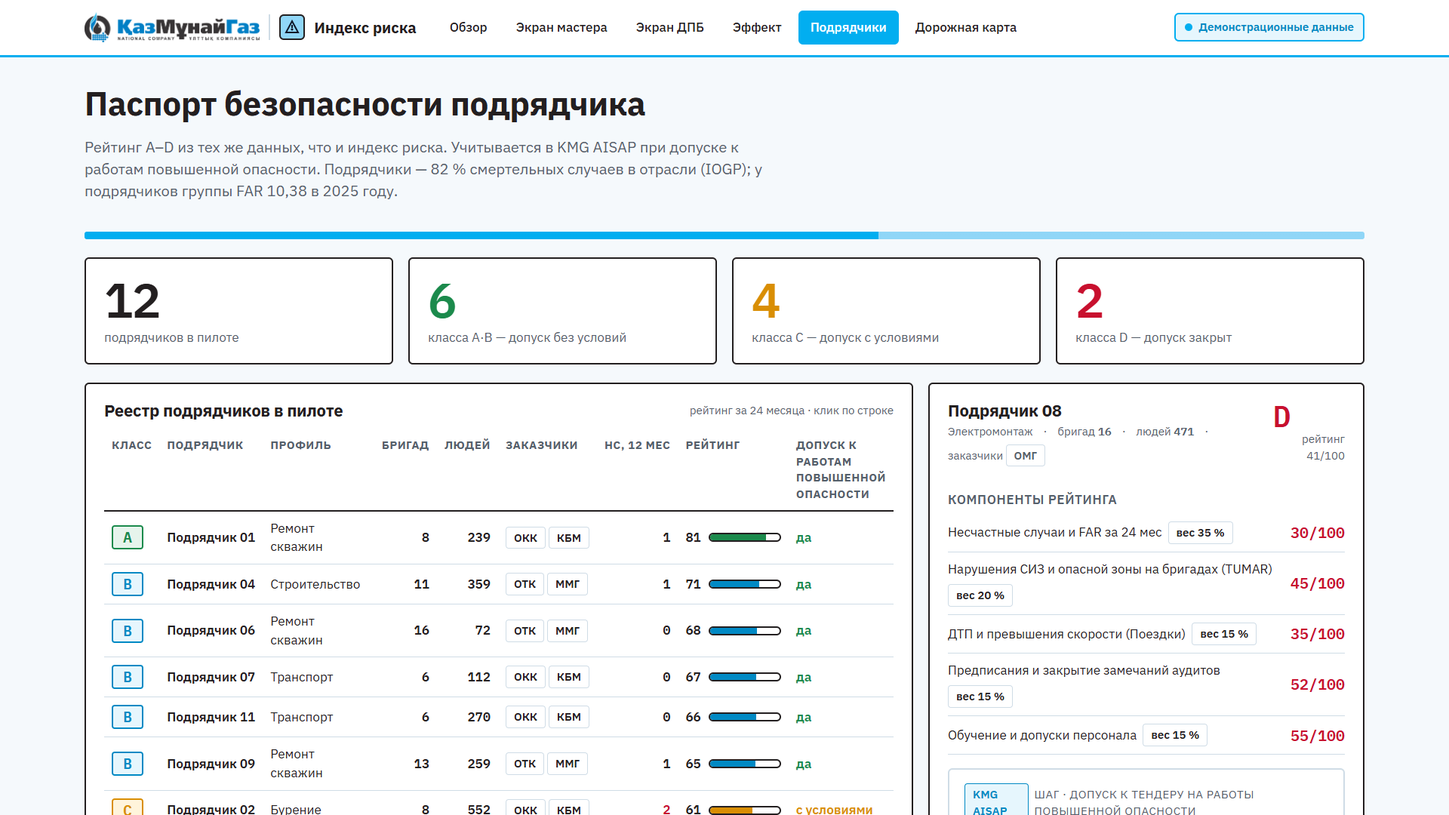
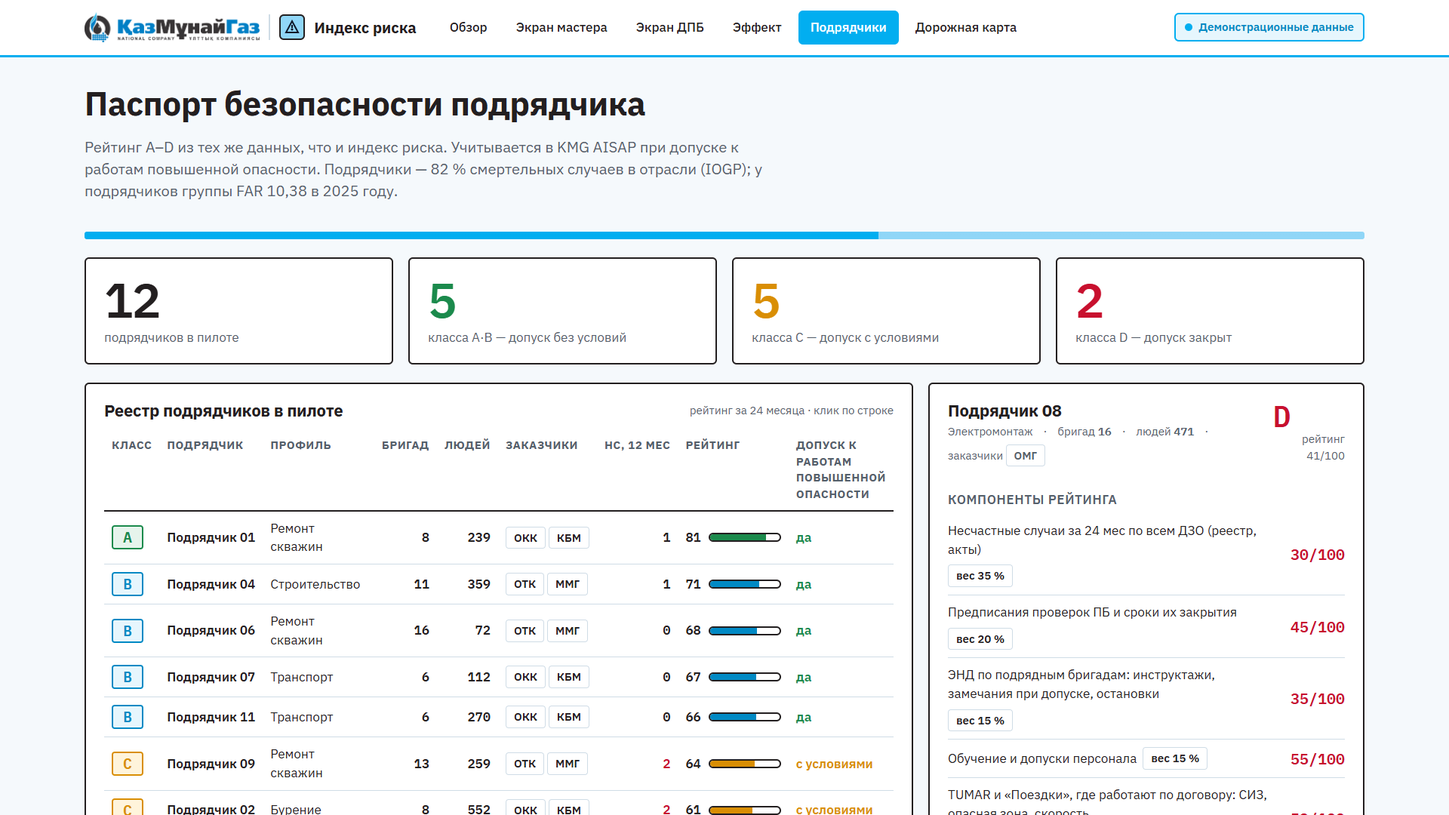
Правки после рецензии комиссий: источники паспорта, класс D с переходным годом, слайд «Роли и пилот»
ЭНД добавлен как источник по подрядным бригадам, TUMAR и «Поездки» — условные.
Класс D больше не «закрыто»: без новых лотов до повторной оценки, договоры не прерываются, арбитр ДПБ.
Убрано условие «90 дней без нарушений TUMAR» — у сторонних подрядчиков TUMAR нет.

diff --git a/схемы.html b/схемы.html
@@ -85,12 +85,12 @@
     </defs>
     <!-- компоненты -->
     <g>
-      <rect class="рамка" x="20" y="40" width="400" height="64" rx="6"/><text x="40" y="68" class="заг">НС и FAR подрядчика · 24 мес</text><text x="40" y="92" class="подпись">реестр инцидентов, все ДЗО · вес 35 %</text>
-      <rect class="рамка" x="20" y="124" width="400" height="64" rx="6"/><text x="40" y="152" class="заг">Нарушения на бригадах</text><text x="40" y="176" class="подпись">TUMAR, видеоаналитика заводов · вес 20 %</text>
-      <rect class="рамка" x="20" y="208" width="400" height="64" rx="6"/><text x="40" y="236" class="заг">ДТП и скорость техники</text><text x="40" y="260" class="подпись">«Управление поездками» · вес 15 %</text>
-      <rect class="рамка" x="20" y="292" width="400" height="64" rx="6"/><text x="40" y="320" class="заг">Предписания и аудиты</text><text x="40" y="344" class="подпись">закрытие замечаний ДПБ · вес 15 %</text>
-      <rect class="рамка" x="20" y="376" width="400" height="64" rx="6"/><text x="40" y="404" class="заг">Обучение и допуски</text><text x="40" y="428" class="подпись">персонал подрядчика · вес 15 %</text>
-      <text x="40" y="490" class="мелко">Веса утверждает ДПБ КМГ. Рейтинг обновляется ежемесячно, действует во всех ДЗО.</text>
+      <rect class="рамка" x="20" y="40" width="400" height="64" rx="6"/><text x="40" y="68" class="заг">Несчастные случаи · 24 мес</text><text x="40" y="92" class="подпись">реестр инцидентов и акты, все ДЗО · вес 35 %</text>
+      <rect class="рамка" x="20" y="124" width="400" height="64" rx="6"/><text x="40" y="152" class="заг">Предписания проверок ПБ</text><text x="40" y="176" class="подпись">5 883 проверки в год, сроки закрытия · вес 20 %</text>
+      <rect class="рамка" x="20" y="208" width="400" height="64" rx="6"/><text x="40" y="236" class="заг">ЭНД по подрядным бригадам</text><text x="40" y="260" class="подпись">инструктажи, замечания, остановки · вес 15 %</text>
+      <rect class="рамка" x="20" y="292" width="400" height="64" rx="6"/><text x="40" y="320" class="заг">Обучение и допуски</text><text x="40" y="344" class="подпись">персонал подрядчика · вес 15 %</text>
+      <rect class="рамка" x="20" y="376" width="400" height="64" rx="6"/><text x="40" y="404" class="заг">TUMAR и «Поездки»</text><text x="40" y="428" class="подпись">где подрядчик работает под ними · вес 15 %</text>
+      <text x="40" y="490" class="мелко">Показатели, веса и пороги утверждает ДПБ КМГ. Обновление ежемесячно, действует во всех ДЗО. Первый год — переходный.</text>
     </g>
     <g class="линия" marker-end="url(#стрD)">
       <path d="M420 72 C490 72 490 240 580 240"/>
@@ -114,13 +114,13 @@
     <g>
       <circle class="з" cx="1125" cy="176" r="12"/><text x="1150" y="172" class="заг">A, B</text><text x="1150" y="196" class="подпись">допущен</text>
       <circle class="ж" cx="1125" cy="256" r="12"/><text x="1150" y="252" class="заг">C</text><text x="1150" y="276" class="подпись">допуск с планом улучшений, оценка через 6 мес</text>
-      <circle class="к" cx="1125" cy="336" r="12"/><text x="1150" y="332" class="заг">D</text><text x="1150" y="356" class="подпись">работы повышенной опасности закрыты</text>
-      <text x="1150" y="380" class="подпись">доступны работы вне опасных зон</text>
+      <circle class="к" cx="1125" cy="336" r="12"/><text x="1150" y="332" class="заг">D</text><text x="1150" y="356" class="подпись">новые лоты на работы повышенной опасности —</text>
+      <text x="1150" y="380" class="подпись">после повторной оценки; договоры не прерываются</text>
     </g>
     <text x="1315" y="408" text-anchor="middle" class="мелко">требуемый класс задаёт заказчик в лоте</text>
     <!-- обратная связь -->
     <path class="линия" stroke-dasharray="8 6" marker-end="url(#стрD)" d="M1315 420 C1315 530 780 530 780 342"/>
-    <text x="1050" y="520" text-anchor="middle" class="подпись">план улучшений подрядчика → 90 дней без нарушений → пересчёт класса</text>
+    <text x="1050" y="520" text-anchor="middle" class="подпись">план улучшений → работа без НС и замечаний → ежемесячный пересчёт класса · арбитр — ДПБ</text>
   </svg>
   </div>
 </section>

diff --git a/данные.js b/данные.js
@@ -120,11 +120,11 @@
   const профили = ['Ремонт скважин','Бурение','Транспорт','Строительство','Сервис оборудования','Ремонт скважин','Транспорт','Электромонтаж','Ремонт скважин','Сервис оборудования','Транспорт','Бурение'];
   for(let i=0;i<12;i++){
     const компоненты = {
-      нс:   {имя:'Несчастные случаи и FAR за 24 мес', вес:35, балл: между(20,100)},
-      tumar:{имя:'Нарушения СИЗ и опасной зоны на бригадах (TUMAR)', вес:20, балл: между(30,100)},
-      дтп:  {имя:'ДТП и превышения скорости (Поездки)', вес:15, балл: между(30,100)},
-      предп:{имя:'Предписания и закрытие замечаний аудитов', вес:15, балл: между(30,100)},
+      нс:   {имя:'Несчастные случаи за 24 мес по всем ДЗО (реестр, акты)', вес:35, балл: между(20,100)},
+      предп:{имя:'Предписания проверок ПБ и сроки их закрытия', вес:20, балл: между(30,100)},
+      энд:  {имя:'ЭНД по подрядным бригадам: инструктажи, замечания при допуске, остановки', вес:15, балл: между(30,100)},
       обуч: {имя:'Обучение и допуски персонала', вес:15, балл: между(40,100)},
+      tumar:{имя:'TUMAR и «Поездки», где работают по договору: СИЗ, опасная зона, скорость', вес:15, балл: между(30,100)},
     };
     const итог = Math.round(Object.values(компоненты).reduce((s,c)=>s+c.вес*c.балл/100,0));
     const класс = итог>=80?'A':итог>=65?'B':итог>=50?'C':'D';
@@ -137,7 +137,7 @@
     });
   }
   // Два подрядчика с низкими показателями, чтобы сценарий «не допущен» был виден
-  [[2,{нс:22,tumar:34,дтп:41,предп:38,обуч:47}],[7,{нс:30,tumar:45,дтп:35,предп:52,обуч:55}]].forEach(([i,б])=>{
+  [[2,{нс:22,предп:34,энд:41,обуч:47,tumar:38}],[7,{нс:30,предп:45,энд:35,обуч:55,tumar:52}]].forEach(([i,б])=>{
     const п = ПОДРЯДЧИКИ[i]; Object.keys(б).forEach(k=>п.компоненты[k].балл=б[k]);
     п.итог = Math.round(Object.values(п.компоненты).reduce((s,c)=>s+c.вес*c.балл/100,0));
     п.класс = п.итог>=80?'A':п.итог>=65?'B':п.итог>=50?'C':'D';

diff --git a/подрядчик.html b/подрядчик.html
@@ -139,7 +139,7 @@
     let итог;
     if (p.класс==='A'||p.класс==='B') итог = '<span class="свет з">Допущен</span>';
     else if (p.класс==='C') итог = '<span class="свет ж">Допущен с планом улучшений, повторная оценка через 6 мес</span>';
-    else итог = '<span class="свет к">Не допущен к работам повышенной опасности. Доступны работы вне опасных зон</span>';
+    else итог = '<span class="свет к">Не допускается к новым лотам на работы повышенной опасности до повторной оценки. Действующие договоры не прерываются</span>';
 
     document.getElementById('паспорт').innerHTML =
       '<div class="шапка-карточки">'+
@@ -159,7 +159,7 @@
       '<ol class="как">'+
         '<li>Закрыть предписания и замечания аудитов — статус обновляется в паспорте автоматически.</li>'+
         '<li>Обучить персонал и продлить допуски через ЭНД — компонент «Обучение» растёт сразу.</li>'+
-        '<li>90 дней без нарушений TUMAR на бригадах — пересчёт рейтинга и переход в класс выше.</li>'+
+        '<li>Отработать без НС и замечаний при допуске — ежемесячный пересчёт рейтинга и переход в класс выше.</li>'+
       '</ol>';
   }
 

diff --git a/сборка_презентаций.py b/сборка_презентаций.py
@@ -187,6 +187,15 @@ def эффект(prs, n, items, head):
 ]
 
 
+def роли(prs, n, строки, подпись):
+    """Слайд «Роли и пилот»: кто заказчик, кто делает, что нужно от ДЗО, сколько стоит пилот отдельно от тиража."""
+    s = новый(prs, n, "Роли и пилот", подпись)
+    for i, (к, в) in enumerate(строки):
+        y = 1.55 + i * 0.78
+        текст(s, 0.55, y, 3.4, 0.7, к, 17, СИГНАЛ, bold=True)
+        текст(s, 4.0, y, 8.8, 0.7, в, 16, ЧЕРНИЛА)
+
+
 def справка(prs, n, подзаголовок):
     """Слайд для комиссий ДЗО: что такое системы-источники. Новых систем не требуется."""
     s = новый(prs, n, "Справочно: системы-источники", подзаголовок)
@@ -232,8 +241,17 @@ A = новая()
        "Оценка, параметры открыты")
 со_кадром(A, 5, "Дорожная карта тиража", ["06_дорожная_карта.png"],
           "Пилот ОМГ (ЭНД + TUMAR + «Управление поездками» уже работают) → ММГ, КБМ → ЭМГ, ОСК → НПЗ. От ДЗО нужен только доступ к событиям систем")
-pa = справка(A, 6, "Все уже работают в группе КМГ. Индекс читает их события, новых систем и оборудования не требуется")
-сохранить(A, "Презентация_A")
+роли(A, 6, [
+    ("Функциональный заказчик", "ДПБ КМГ: утверждает перечень признаков, веса и пороги светофора"),
+    ("Площадка пилота", "АО «Озенмунайгаз», служба ПБ: ЭНД, TUMAR и «Управление поездками» уже работают"),
+    ("Разработка", "ТОО «KMG Digital» на базе АСДЦ и ЭНД; события систем, не видео"),
+    ("Инициатор и руководитель пилота", "автор заявки"),
+    ("Что нужно от ДЗО", "ничего, кроме доступа к событиям систем: ни оборудования, ни новых отчётов"),
+    ("Срок и затраты", "пилот 6 месяцев; полное внедрение на ДЗО — 120 млн тг в первый год, далее 24 млн тг в год (оценка)"),
+    ("Что измеряем", "доля жёлтых и красных нарядов и их закрытие; нарушения TUMAR на бригаду до и после; НС на работах повышенной опасности год к году"),
+], "Кто отвечает, кто делает, что нужно от ДЗО")
+справка(A, 7, "Все уже работают в группе КМГ. Индекс читает их события, новых систем и оборудования не требуется")
+pa = сохранить(A, "Презентация_A")
 
 # ---------- D ----------
 D = новая()
@@ -243,9 +261,9 @@ D = новая()
        ("82 %", ЯНТ, "смертельных и инвалидизирующих случаев в отрасли — подрядчики (IOGP)"),
        ("5 883", ЧЕРНИЛА, "ручных проверок ПБ подрядчиков за 2025 год, не связанных с допуском к тендеру")], ИСТОЧНИК_D)
 со_кадром(D, 2, "Как это работает", ["схема_D.png", "05_подрядчик.png"],
-          "Пять компонентов рейтинга: НС и FAR, нарушения TUMAR, ДТП и скорость, предписания, обучение. Класс обновляется ежемесячно и действует во всех ДЗО")
+          "Пять компонентов: НС за 24 мес, предписания проверок ПБ, ЭНД по подрядным бригадам, обучение, TUMAR и «Поездки» там, где подрядчик работает под ними. Веса и пороги — ДПБ")
 два_кадра(D, 3, "Паспорт и гейт в AISAP", ["05_подрядчик.png"], ["05б_паспорт.png", "05_подрядчик.png"],
-          "A и B — допуск; C — допуск с планом улучшений и повторной оценкой через 6 месяцев; D — работы повышенной опасности закрыты. Рейтинг прозрачен подрядчику в личном кабинете")
+          "A и B — допуск; C — допуск с планом улучшений и оценкой через 6 месяцев; D — без новых лотов на работы повышенной опасности до повторной оценки, договоры не прерываются. Первый год — переходный, арбитр — ДПБ")
 эффект(D, 4, ["Прямое давление на FAR 10,38: подрядчики класса D не попадают на работы повышенной опасности",
               "Дорожная карта ДПБ по подрядчикам 2025–2027 требует измеримых KPI — паспорт их даёт",
               "Одно ДЗО: ~70 млн тг в год при снижении НС подрядчиков на 15 %",
@@ -255,8 +273,17 @@ D = новая()
        "Оценка, параметры открыты")
 со_кадром(D, 5, "Дорожная карта", ["06_дорожная_карта.png"],
           "Пилот ОСК и ОТК (TUMAR и «Управление поездками» уже работают) → ОКК, ОМГ → все добывающие ДЗО. Гейт в AISAP обязателен для работ повышенной опасности с Q3 2027")
-pd = справка(D, 6, "Все уже работают в группе КМГ. Паспорт считается из их данных, новых проверок не требуется")
-сохранить(D, "Презентация_D")
+роли(D, 6, [
+    ("Функциональный заказчик", "ДПБ КМГ совместно с Департаментом закупок: показатели, веса, пороги классов, порядок оспаривания"),
+    ("Площадки пилота", "ОМГ (подрядные работы ПРС/КРС, ЭНД выдаётся подрядным бригадам) и ОТК (транспортные подрядчики)"),
+    ("Разработка", "ТОО «KMG Digital» на базе KMG AISAP; данные из реестра инцидентов, проверок ДПБ, ЭНД"),
+    ("Инициатор и руководитель пилота", "автор заявки"),
+    ("Правовой механизм", "требуемый класс — квалификационное требование и условие договора по правилам закупок Фонда; первый год переходный"),
+    ("Срок и затраты", "пилот 6 месяцев; внедрение на ДЗО — 80 млн тг в первый год, далее 16 млн тг в год (оценка)"),
+    ("Что измеряем", "распределение подрядчиков по классам; закрытие предписаний в срок; НС и FAR подрядчиков год к году"),
+], "Кто отвечает, кто делает, как это законно")
+справка(D, 7, "Все уже работают в группе КМГ. Паспорт считается из их данных, новых проверок не требуется")
+pd = сохранить(D, "Презентация_D")
 
 
 # ---------- PDF ----------
